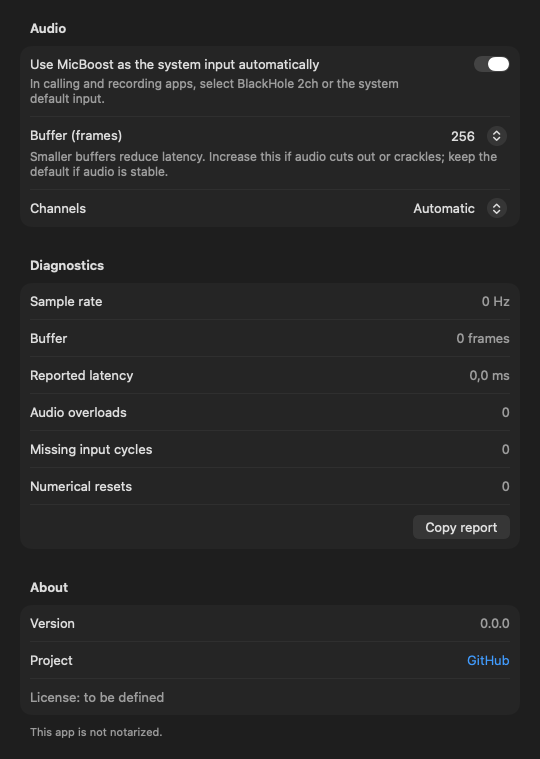
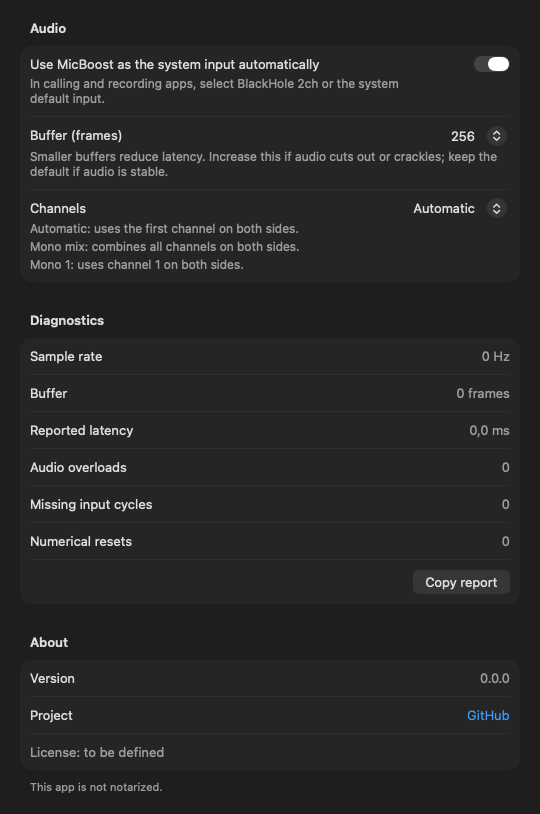
Explain each available channel routing option

diff --git a/Sources/MicBoostUI/Views.swift b/Sources/MicBoostUI/Views.swift
@@ -287,13 +287,31 @@ import SwiftUI
                     .foregroundStyle(.secondary)
                     .fixedSize(horizontal: false, vertical: true)
                 }
-                Picker(localized("Channels"), selection: Binding(get: { channel }, set: setChannel)) {
-                    Text(localized("Automatic")).tag(0)
-                    Text(localized("Mono mix")).tag(-1)
-                    ForEach(1...max(1, Int(model.status?.source?.inputChannels ?? 1)), id: \.self) {
-                        Text("Mono \($0)").tag($0)
+                VStack(alignment: .leading, spacing: 4) {
+                    Picker(localized("Channels"), selection: Binding(get: { channel }, set: setChannel)) {
+                        Text(localized("Automatic")).tag(0)
+                        Text(localized("Mono mix")).tag(-1)
+                        ForEach(1...sourceChannelCount, id: \.self) {
+                            Text("Mono \($0)").tag($0)
+                        }
+                        if sourceChannelCount >= 2 { Text("Stereo 1–2").tag(-2) }
                     }
-                    if (model.status?.source?.inputChannels ?? 0) >= 2 { Text("Stereo 1–2").tag(-2) }
+                    VStack(alignment: .leading, spacing: 3) {
+                        Text(localized("Automatic: uses the first channel on both sides."))
+                        Text(localized("Mono mix: combines all channels on both sides."))
+                        ForEach(1...sourceChannelCount, id: \.self) { channel in
+                            Text(
+                                String.localizedStringWithFormat(
+                                    localized("Mono %lld: uses channel %lld on both sides."),
+                                    Int64(channel), Int64(channel)))
+                        }
+                        if sourceChannelCount >= 2 {
+                            Text(localized("Stereo 1–2: channel 1 on the left, channel 2 on the right."))
+                        }
+                    }
+                    .font(.callout)
+                    .foregroundStyle(.secondary)
+                    .fixedSize(horizontal: false, vertical: true)
                 }
             }
             Section(localized("Diagnostics")) {
@@ -331,6 +349,9 @@ import SwiftUI
         .formStyle(.grouped)
 
         .frame(width: 540)
+    }
+    private var sourceChannelCount: Int {
+        max(1, Int(model.status?.source?.inputChannels ?? 1))
     }
     private var channel: Int {
         switch model.controls.channelSelectionByUID[model.controls.selectedInputUID ?? ""] ?? .auto {

diff --git a/docs/ui.md b/docs/ui.md
@@ -88,7 +88,7 @@ As seções seguem o estilo dos Ajustes do Sistema: cartões agrupados nativos,
 controles com tamanho padrão do sistema, switch nativo à direita com explicação secundária
 junto ao rótulo e linhas de diagnóstico/sobre com rótulo à esquerda e valor à direita.
 
-- **Áudio:** chave "Usar MicBoost como entrada do sistema automaticamente" (`manageDefaultInput`, ligada por padrão), com uma frase explicando que, desligada, cada app precisa selecionar o microfone "BlackHole 2ch" por conta própria; "Buffer (quadros)" (64/128/256/512/1024, só os valores suportados), com descrição abaixo explicando que valores menores reduzem o atraso e valores maiores podem evitar cortes ou estalos; manter o padrão se o áudio estiver estável e modo de canais da fonte atual ([audio-engine.md](audio-engine.md#canais)).
+- **Áudio:** chave "Usar MicBoost como entrada do sistema automaticamente" (`manageDefaultInput`, ligada por padrão), com uma frase explicando que, desligada, cada app precisa selecionar o microfone "BlackHole 2ch" por conta própria; "Buffer (quadros)" (64/128/256/512/1024, só os valores suportados), com descrição abaixo explicando que valores menores reduzem o atraso e valores maiores podem evitar cortes ou estalos; manter o padrão se o áudio estiver estável e modo de canais da fonte atual ([audio-engine.md](audio-engine.md#canais)), com uma linha de legenda para cada opção disponível: Automático usa o primeiro canal nos dois lados; Misturar mono combina todos; Mono N usa o canal N nos dois lados; Estéreo 1–2 separa os canais 1 e 2 em esquerda e direita.
 - **Diagnóstico** (somente leitura, atualização a 1 Hz com a janela visível): taxa de amostragem, buffer, latência reportada, overloads, `input_missing`, `nonfinite_resets`. Botão "Copiar relatório" (texto para a área de transferência).
 - **Sobre:** versão, link do projeto, aviso de que o app não é notarizado e informação de licença.
 

diff --git a/README.md b/README.md
@@ -80,7 +80,8 @@ Available today:
   length with flat EQ and no limiting. The protected −1 dBFS output reaches about 89.1% of the bar. This visual decay does not delay the audio.
 - **Menu bar panel** with gain, meters, routing status, microphones and EQ, plus settings for
   buffer, channels, automatic system input switching and diagnostics, using native grouped
-  sections and switches. Buffer sizes are labeled in frames, with guidance on latency and audio stability.
+  sections and switches. Buffer sizes are labeled in frames, with guidance on latency and audio stability;
+  channel options each explain how the microphone inputs map to the left and right output.
 - **Voice preset** for rumble reduction and gentle presence, plus a flat EQ reset.
 - **Processing switch** releases the microphone; quitting restores the previous system input
   when MicBoost still manages it.
